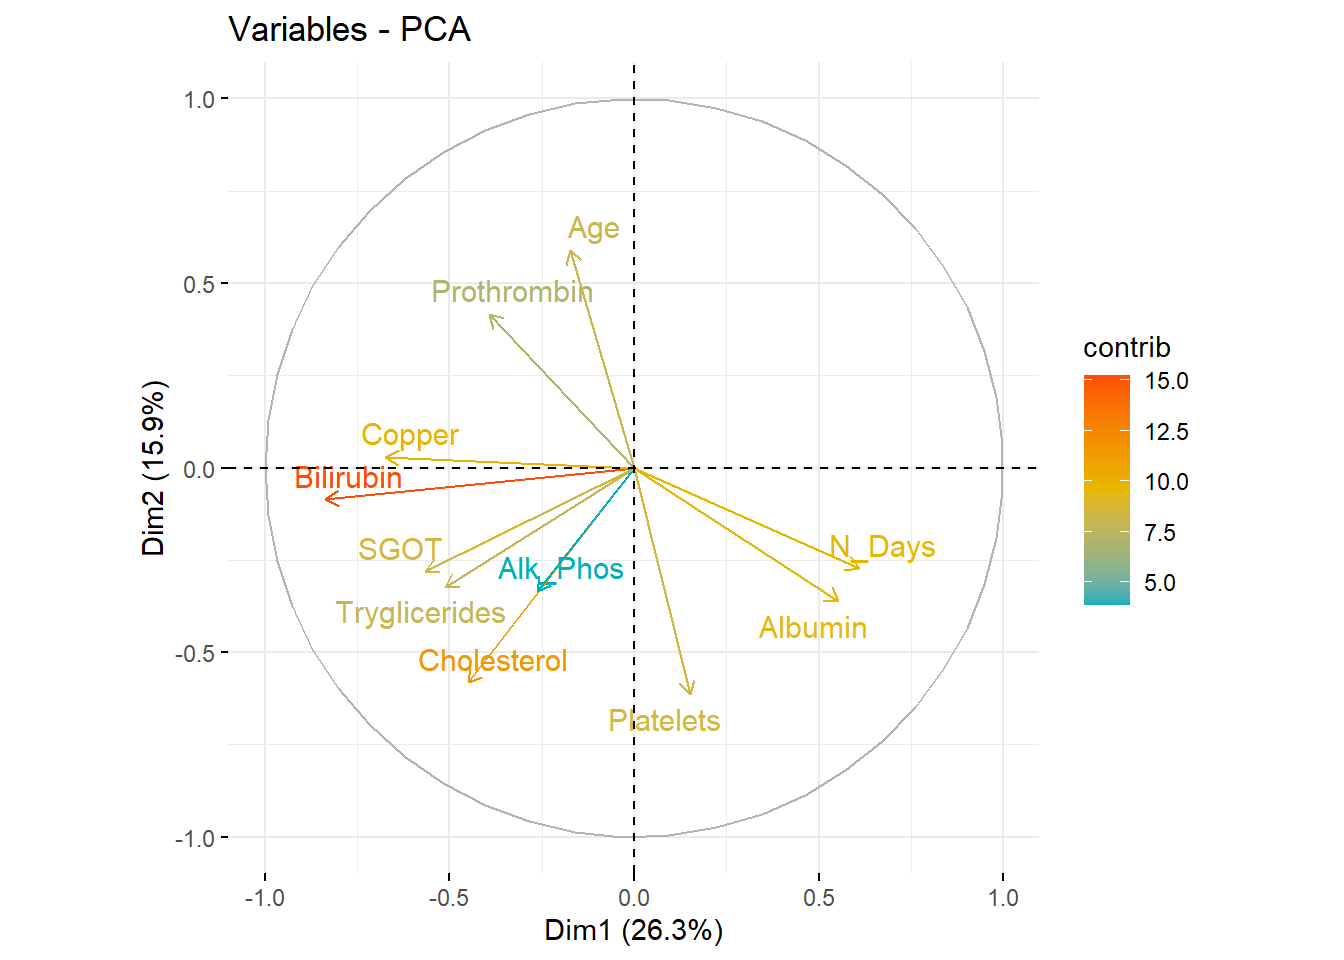
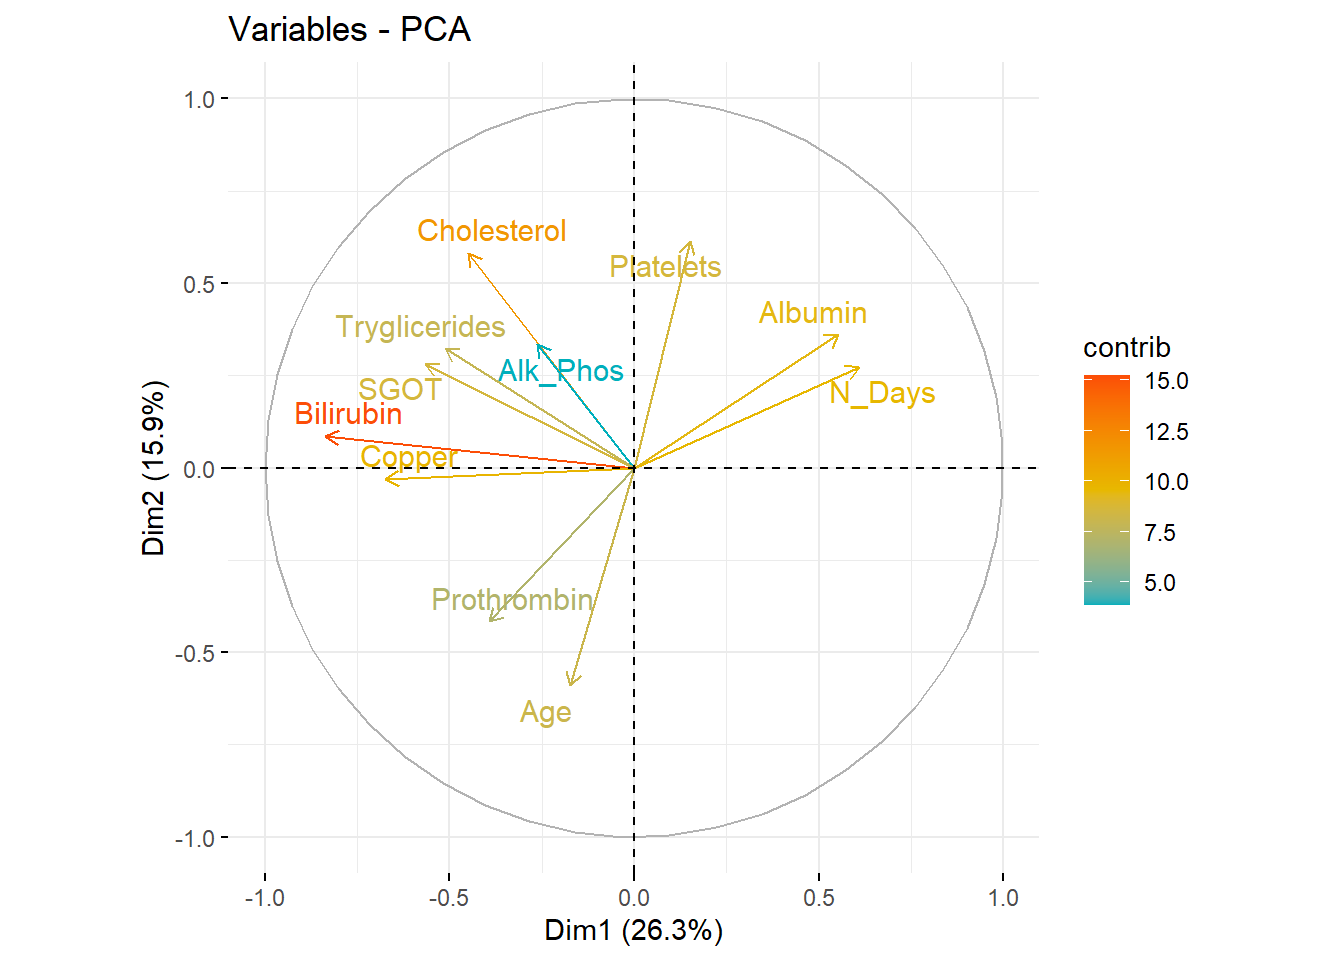
arreglo variables

diff --git a/Entrega_Clustering.html b/Entrega_Clustering.html
@@ -209,7 +209,7 @@ $ Stage         &lt;fct&gt; 4, 3, 4, 4, 3, 3, 3, 2, 4, 4, 4, 3, 3, 3, 4, 4, 3, 4
 <li><code>Alk_Phos</code>: Fosfatasa alcalina [U/liter]</li>
 <li><code>SGOT</code>: SGOT [U/ml]</li>
 <li><code>Triglycerides</code>: Triglicéridos [mg/dl]</li>
-<li><code>Platelets</code>: Plaquetas por cúbico [ml/1000]</li>
+<li><code>Platelets</code>: Plaquetas por centímetro cúbico [ml/1000]</li>
 <li><code>Prothrombin</code>: Tiempo de Protrombina [s]</li>
 <li><code>Stage</code>: Estado histórico de la enfermedad (1, 2, 3, or 4)</li>
 </ul>
@@ -605,17 +605,17 @@ Dim.11    0.32946          2.99511                   100.00000</code></pre>
 <div class="cell">
 <div class="cell-output cell-output-stdout">
 <pre><code>                  PC1     PC2
-N_Days         0.3585 -0.2066
-Age           -0.1023  0.4465
-Bilirubin     -0.4919 -0.0652
-Cholesterol   -0.2640 -0.4403
-Albumin        0.3257 -0.2734
-Copper        -0.3962  0.0226
-Alk_Phos      -0.1544 -0.2527
-SGOT          -0.3326 -0.2131
-Tryglicerides -0.3010 -0.2445
-Platelets      0.0885 -0.4649
-Prothrombin   -0.2311  0.3154</code></pre>
+N_Days         0.3585  0.2066
+Age           -0.1023 -0.4465
+Bilirubin     -0.4919  0.0652
+Cholesterol   -0.2640  0.4403
+Albumin        0.3257  0.2734
+Copper        -0.3962 -0.0226
+Alk_Phos      -0.1544  0.2527
+SGOT          -0.3326  0.2131
+Tryglicerides -0.3010  0.2445
+Platelets      0.0885  0.4649
+Prothrombin   -0.2311 -0.3154</code></pre>
 </div>
 </div>
 <p>Observemos que la primera componente principal da un peso muy elevado y negativo a la variable <code>Bilirubin</code>.</p>
